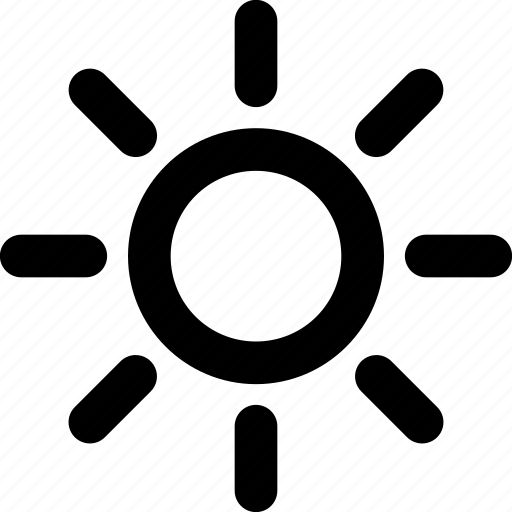
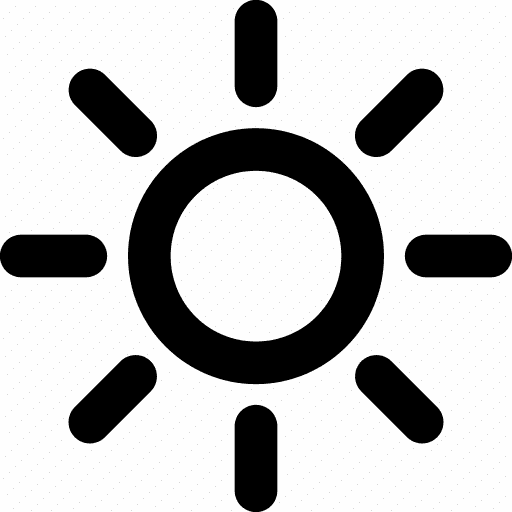
se comprimieron las imagenes de los temas

diff --git a/apps/core/templates/components/side-panel/side-panel.html b/apps/core/templates/components/side-panel/side-panel.html
@@ -12,7 +12,11 @@
     </ul>
     <div class="w-[100%] h-[1px] bg-slate-400"></div>
     <ul class="flex items-center space-x-5 justify-center my-5">
-        <li><a href="{% url 'account_login' %}" class="px-4 py-2 rounded-lg dark:text-white transition-colors">Login</a></li>
-        <li><a href="{% url 'account_signup' %}" class="px-4 py-2 rounded-lg dark:bg-[#1f1f28] dark:hover:bg-[#262626] dark:text-white bg-[#f3f2f2b7] hover:bg-[#e2e2e2b7] transition-colors">Sing up</a></li>
+        {% if user.is_authenticated %}
+            <li><a href="{% url 'account_logout' %}" class="px-4 py-2 rounded-lg dark:text-white transition-colors">Logout</a></li>
+        {% else %}
+            <li><a href="{% url 'account_login' %}" class="px-4 py-2 rounded-lg dark:text-white transition-colors">Login</a></li>
+            <li><a href="{% url 'account_signup' %}" class="px-4 py-2 rounded-lg dark:bg-[#1f1f28] dark:hover:bg-[#262626] dark:text-white bg-[#f3f2f2b7] hover:bg-[#e2e2e2b7] transition-colors">Sing up</a></li>
+        {% endif %}
     </ul>
 </aside>
